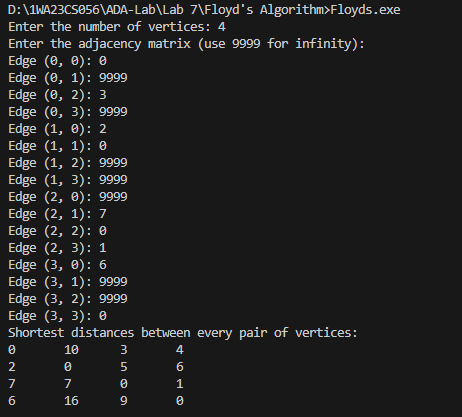
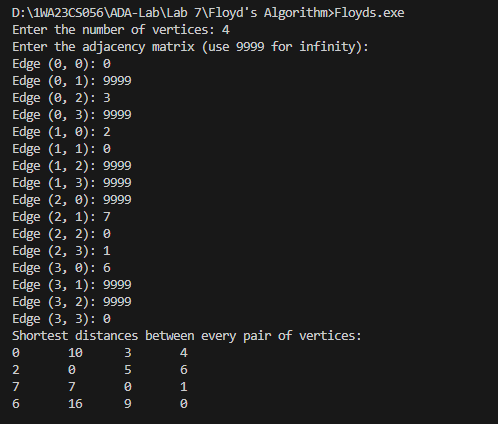
Refactor input loop in Floyd's algorithm to include edge prompts

Changed region(s): [[0.0, 0.0, 0.8788, 0.9664]]

diff --git a/Lab 7/Floyd's Algorithm/Floyds.c b/Lab 7/Floyd's Algorithm/Floyds.c
@@ -40,11 +40,12 @@ int main() {
     scanf("%d", &n);
 
     printf("Enter the adjacency matrix (use 9999 for infinity):\n");
-    for (int i = 0; i < n; i++)
+    for (int i = 0; i < n; i++) {
         for (int j = 0; j < n; j++) {
             printf("Edge (%d, %d): ", i, j);
             scanf("%d", &graph[i][j]);
         }
+    }
 
     floyd(graph, n);
 
